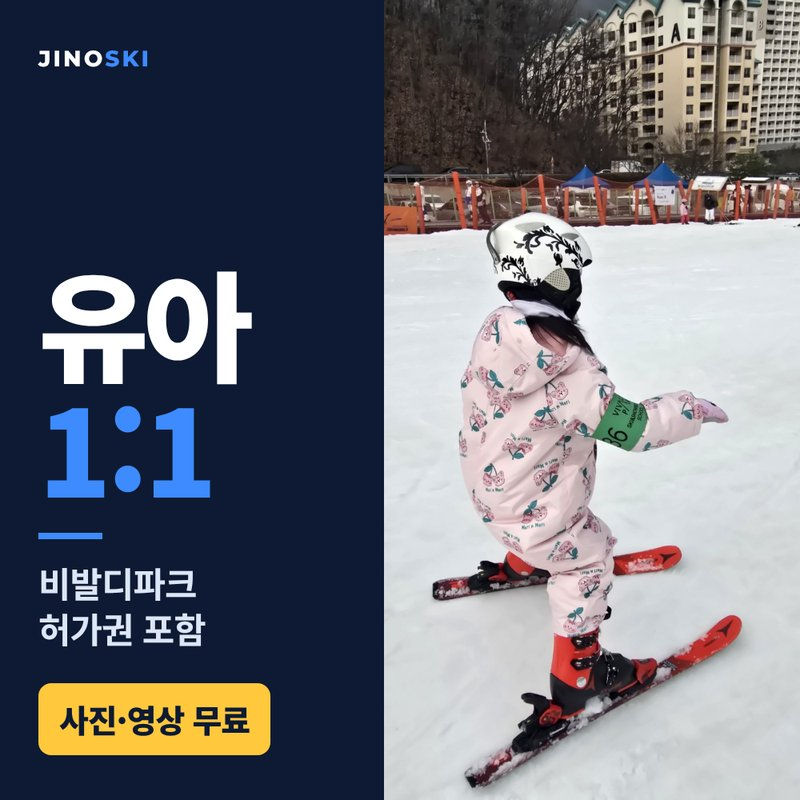
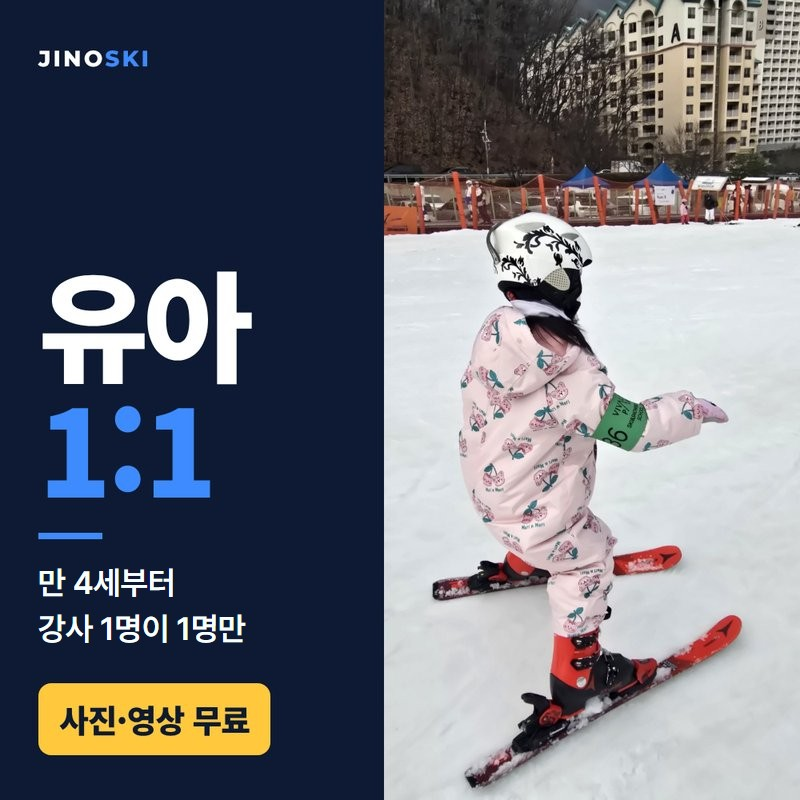
Fix store pass wording, block pre-season dates, move toast and review event
- Store: lesson cards say 패찰 별도 (no 허가권 포함); snap 390,000원 with A3 frame
- SEASON_OPEN (2026-12-04): reserve/quote calendars and snap date input block earlier dates
- Early-bird toast waits until the hero is scrolled past, so it never covers the hero CTAs
- Reviews page: reviews first with a one-line event strip; event section moved below;
  review grid no longer hidden behind a 30%-in-view reveal

Changed region(s): [[0.0312, 0.6875, 0.3125, 0.8125]]

diff --git a/src/config/store.ts b/src/config/store.ts
@@ -26,7 +26,7 @@ export const storeProducts: StoreProduct[] = [
     summary: "가장 많이 찾는 대표 강습. 입문부터 상급까지 레벨에 맞춰 진행해요.",
     points: ["날짜 → 시간(2·3시간) → 교시 선택", "1:1 · 1:2 · 1:3 소수 정예", "무전기 코칭 + 사진·영상 촬영"],
     price: "140,000원~",
-    priceNote: "1:1 · 2시간 기준",
+    priceNote: "1:1 · 2시간 기준 · 패찰 1인 25,000원 별도",
     image: "/images/store/ski.jpg",
     badge: "대표 상품",
     url: "https://smartstore.naver.com/jinoski/products/11057372815",
@@ -37,7 +37,7 @@ export const storeProducts: StoreProduct[] = [
     summary: "넘어지지 않고 내려오는 법부터 턴까지. 만 4세부터 가능해요.",
     points: ["스키와 같은 요금", "1:1 · 1:2 · 1:3 소수 정예", "무전기 코칭 + 사진·영상 촬영"],
     price: "140,000원~",
-    priceNote: "1:1 · 2시간 기준",
+    priceNote: "1:1 · 2시간 기준 · 패찰 1인 25,000원 별도",
     image: "/images/store/snowboard.jpg",
     url: "https://smartstore.naver.com/jinoski/products/12755316447",
   },
@@ -68,7 +68,8 @@ export const storeProducts: StoreProduct[] = [
     name: "인생사진 스냅 촬영",
     summary: "슬로프 위 우리 가족 인생사진. 대표가 직접 찍고, 보정하고, A3 액자로 인화해요.",
     points: ["3시간 촬영 (주간·야간 같은 가격)", "원본 전체 + 보정 20장 + 릴스 1개", "A3 파인아트 액자 포함"],
-    price: "290,000원~",
+    price: "390,000원~",
+    priceNote: "1인 · A3 액자 포함 (액자 없이 촬영만 290,000원)",
     image: "/images/store/snap.jpg",
     badge: "시즌 메인",
     url: "https://smartstore.naver.com/jinoski/products/12668462302",
@@ -79,7 +80,7 @@ export const storeProducts: StoreProduct[] = [
     summary: "넉넉하게 배우고 싶을 때. 오전·오후·야간 중 한 번에 4시간 집중 레슨.",
     points: ["09:00 · 13:20 · 19:00 시작", "스키 · 스노우보드 선택", "1:1 · 1:2 · 1:3"],
     price: "280,000원~",
-    priceNote: "1:1 기준",
+    priceNote: "1:1 기준 · 패찰 1인 50,000원 별도",
     image: "/images/store/4h.jpg",
     url: "https://smartstore.naver.com/jinoski/products/12755335317",
   },
@@ -89,7 +90,7 @@ export const storeProducts: StoreProduct[] = [
     summary: "처음 스키장에 온 아이도 놀이처럼 즐겁게. 강사 한 명이 아이 한 명만 봐요.",
     points: ["만 4세부터", "놀이식 레슨 · 안전 최우선", "레슨 사진·영상으로 부모님께 공유"],
     price: "140,000원~",
-    priceNote: "1:1 · 2시간 기준",
+    priceNote: "1:1 · 2시간 기준 · 패찰 1인 25,000원 별도",
     image: "/images/store/kids.jpg",
     badge: "부모님 추천",
     url: "https://smartstore.naver.com/jinoski/products/11057751524",

diff --git a/src/components/sections/team-quote.tsx b/src/components/sections/team-quote.tsx
@@ -26,7 +26,7 @@ import { trackEvent } from "@/components/shared/analytics";
 import { useContent } from "@/lib/use-content";
 import { EARLY_BIRD, isEarlyBirdActive } from "@/lib/pricing";
 import { cn } from "@/lib/utils";
-import { HOLIDAYS, LIFT_PRICES, LIFT_RENTAL_DISCOUNT, RENTAL_PRICES, type TicketHours } from "@/config/lift-rental";
+import { HOLIDAYS, LIFT_PRICES, LIFT_RENTAL_DISCOUNT, RENTAL_PRICES, SEASON_OPEN_DATE, type TicketHours } from "@/config/lift-rental";
 
 const KAKAO_NOTIFY_URL =
   process.env.NEXT_PUBLIC_KAKAO_NOTIFY_URL || "https://jinoski-notify.wlsgh5743669.workers.dev";
@@ -2279,7 +2279,9 @@ function RangeCalendar({
   // 비시즌(4~10월)엔 12월부터 보여줘요
   const init = start
     ? new Date(`${start}T00:00:00`)
-    : today.getMonth() >= 3 && today.getMonth() <= 9
+    : today < SEASON_OPEN_DATE
+      ? SEASON_OPEN_DATE
+      : today.getMonth() >= 3 && today.getMonth() <= 9
       ? new Date(today.getFullYear(), 11, 1)
       : today;
   const [view, setView] = useState({ y: init.getFullYear(), m: init.getMonth() });
@@ -2344,7 +2346,7 @@ function RangeCalendar({
       <div className="mt-1.5 grid grid-cols-7 gap-y-1">
         {cells.map((d, i) => {
           if (!d) return <div key={`e${i}`} />;
-          const past = d < today;
+          const past = d < today || d < SEASON_OPEN_DATE;
           const isStart = !!startD && d.getTime() === startD.getTime();
           const isEnd = !!endD && days > 1 && d.getTime() === endD.getTime();
           const inRange = !!startD && !!endD && d > startD && d < endD;
@@ -2378,6 +2380,11 @@ function RangeCalendar({
           );
         })}
       </div>
+      {first <= SEASON_OPEN_DATE && today < SEASON_OPEN_DATE && (
+        <p className="mt-2 rounded-xl bg-ice-100 px-3 py-2 text-center text-[12.5px] font-semibold text-brand-700">
+          {SEASON_OPEN_DATE.getMonth() + 1}월 {SEASON_OPEN_DATE.getDate()}일 개장 — 그 전 날짜는 고를 수 없어요
+        </p>
+      )}
       <p className="mt-2 text-center text-[12px] text-snow-500">
         <span className="font-semibold text-rose-500">빨간 날(일·공휴일)</span>과 <span className="font-semibold text-brand-600">토요일</span>은 리프트·장비 주말 요금이에요
       </p>

diff --git a/src/app/[locale]/reserve/date-picker.tsx b/src/app/[locale]/reserve/date-picker.tsx
@@ -5,7 +5,7 @@ import { ChevronLeft, ChevronRight } from "lucide-react";
 import { cn } from "@/lib/utils";
 import { useContent } from "@/lib/use-content";
 import { useLocale } from "next-intl";
-import { HOLIDAYS, HOLIDAY_NAMES } from "@/config/lift-rental";
+import { HOLIDAYS, HOLIDAY_NAMES, SEASON_OPEN_DATE } from "@/config/lift-rental";
 
 function toDateKey(date: Date): string {
   const y = date.getFullYear();
@@ -17,6 +17,8 @@ function toDateKey(date: Date): string {
 // 4월~10월(비시즌)에는 다가오는 12월(시즌 시작)을 기본으로 보여주고,
 // 11월~3월(시즌 중)에는 실제 이번 달을 그대로 보여줍니다.
 function getDefaultViewDate(today: Date): Date {
+  // 개장 전이면 개장하는 달부터 보여줘요
+  if (today < SEASON_OPEN_DATE) return SEASON_OPEN_DATE;
   const month = today.getMonth();
   const isOffSeason = month >= 3 && month <= 9;
   if (isOffSeason) {
@@ -98,7 +100,7 @@ export function DatePicker({
         {cells.map((date, i) => {
           if (!date) return <div key={`empty-${i}`} />;
           const key = toDateKey(date);
-          const isPast = date < today;
+          const isPast = date < today || date < SEASON_OPEN_DATE;
           const isSelected = key === value;
           const hol = HOLIDAYS.includes(key);
           const red = date.getDay() === 0 || hol;
@@ -127,6 +129,15 @@ export function DatePicker({
           );
         })}
       </div>
+      {firstOfMonth <= SEASON_OPEN_DATE && today < SEASON_OPEN_DATE && (
+        <p className="mt-4 rounded-xl bg-ice-100 px-3 py-2 text-center text-[12.5px] font-semibold text-brand-700">
+          {L === "en"
+            ? `The season opens on Dec ${SEASON_OPEN_DATE.getDate()} — earlier dates can't be booked`
+            : L === "zh"
+              ? `雪季${SEASON_OPEN_DATE.getMonth() + 1}月${SEASON_OPEN_DATE.getDate()}日开放，之前的日期无法预约`
+              : `${SEASON_OPEN_DATE.getMonth() + 1}월 ${SEASON_OPEN_DATE.getDate()}일 개장 — 그 전 날짜는 예약할 수 없어요`}
+        </p>
+      )}
       <p className="mt-4 text-center text-[12px] leading-relaxed text-snow-500">
         {L === "en" ? (
           <>

diff --git a/src/components/sections/review-event.tsx b/src/components/sections/review-event.tsx
@@ -38,7 +38,31 @@ export function ReviewEventBanner() {
   );
 }
 
-/** 후기 페이지 상단 이벤트 섹션 */
+/** 후기 페이지 맨 위 한 줄 띠 — 후기를 먼저 보여주고, 이벤트는 페이지 아래 섹션으로 내려가요 */
+export function ReviewEventStrip() {
+  const e = getReviewEvent(useLocale());
+  return (
+    <div className="bg-white pt-6 sm:pt-8">
+      <Container>
+        <a
+          href="#review-event"
+          className="group flex items-center gap-3 rounded-2xl bg-gradient-to-r from-[#833AB4] via-[#E1306C] to-[#F77737] py-2.5 pl-3 pr-4 text-white"
+        >
+          <span className="flex h-9 w-9 shrink-0 items-center justify-center rounded-xl bg-white/20">
+            <Instagram size={18} />
+          </span>
+          <span className="min-w-0 flex-1">
+            <span className="block text-[13.5px] font-bold leading-snug">{e.banner.title}</span>
+            <span className="hidden truncate text-[12px] text-white/85 sm:block">{e.banner.description}</span>
+          </span>
+          <span className="shrink-0 text-[12.5px] font-bold underline-offset-2 group-hover:underline">{e.banner.cta} ↓</span>
+        </a>
+      </Container>
+    </div>
+  );
+}
+
+/** 후기 페이지 이벤트 섹션 (후기 목록 아래) */
 export function ReviewEvent() {
   const e = getReviewEvent(useLocale());
   const { contact } = useContent();

diff --git a/src/components/sections/reviews.tsx b/src/components/sections/reviews.tsx
@@ -5,7 +5,6 @@ import { Star, Quote, X, Hand } from "lucide-react";
 import { useContent } from "@/lib/use-content";
 import { cn } from "@/lib/utils";
 import { Container } from "@/components/shared/container";
-import { Reveal } from "@/components/shared/reveal";
 import { ReserveCta } from "@/components/shared/reserve-cta";
 
 type Content = ReturnType<typeof useContent>;
@@ -57,13 +56,12 @@ export function Reviews() {
           <Hand size={14} /> {ui.reviews.tapHint}
         </p>
 
-        <Reveal delay={0.1}>
-          <div className="mt-8 grid grid-cols-2 gap-3 sm:gap-4 md:grid-cols-3 lg:grid-cols-4">
-            {list.slice(0, visible).map((review, i) => (
-              <ReviewCard key={`${review.name}-${review.date}-${i}`} review={review} ui={ui.reviews} />
-            ))}
-          </div>
-        </Reveal>
+        {/* 그리드가 길어서 등장 애니메이션(30% 보일 때)을 쓰면 첫 화면이 비어 보여요 → 바로 보여줘요 */}
+        <div className="mt-8 grid grid-cols-2 gap-3 sm:gap-4 md:grid-cols-3 lg:grid-cols-4">
+          {list.slice(0, visible).map((review, i) => (
+            <ReviewCard key={`${review.name}-${review.date}-${i}`} review={review} ui={ui.reviews} />
+          ))}
+        </div>
 
         {visible < list.length && (
           <div className="mt-8 flex justify-center">

diff --git a/src/components/sections/snap-shoot.tsx b/src/components/sections/snap-shoot.tsx
@@ -15,6 +15,7 @@ import { Link } from "@/i18n/navigation";
 import { ConsentBox, marketingTag } from "@/components/shared/consent-box";
 import { attributionText } from "@/components/shared/attribution";
 import { getSnapContent, optionCost, type SnapPackage } from "@/config/content/snap";
+import { SEASON_OPEN } from "@/config/lift-rental";
 
 const KAKAO_NOTIFY_URL =
   process.env.NEXT_PUBLIC_KAKAO_NOTIFY_URL || "https://jinoski-notify.wlsgh5743669.workers.dev";
@@ -307,7 +308,7 @@ export function SnapShoot() {
             <div className="mt-7 grid gap-5">
               <label className="grid gap-2">
                 <span className="text-[14px] font-semibold text-ink-900">{b.date}</span>
-                <input type="date" value={date} onChange={(e) => setDate(e.target.value)} className={inputCls} />
+                <input type="date" min={SEASON_OPEN} value={date} onChange={(e) => setDate(e.target.value)} className={inputCls} />
               </label>
 
               <div className="grid gap-2">

diff --git a/src/components/sections/season-popup.tsx b/src/components/sections/season-popup.tsx
@@ -48,8 +48,24 @@ export function SeasonPopup() {
       dismissed = false;
     }
     if (dismissed) return;
-    const t = setTimeout(() => setBanner(true), 3000);
-    return () => clearTimeout(t);
+    // 첫 화면의 「예약하기·레슨 보기」 버튼을 가리지 않도록,
+    // 3초가 지나고 + 첫 화면을 어느 정도 내린 뒤에만 띄워요.
+    let waited = false;
+    const check = () => {
+      if (waited && window.scrollY > window.innerHeight * 0.7) {
+        setBanner(true);
+        window.removeEventListener("scroll", check);
+      }
+    };
+    const t = setTimeout(() => {
+      waited = true;
+      check();
+    }, 3000);
+    window.addEventListener("scroll", check, { passive: true });
+    return () => {
+      clearTimeout(t);
+      window.removeEventListener("scroll", check);
+    };
   }, [locale]);
   const closeBanner = () => {
     setBanner(false);

diff --git a/src/config/lift-rental.ts b/src/config/lift-rental.ts
@@ -25,6 +25,10 @@ export const CHILD_LABEL = "어린이(13세 이하·초등)";
 /** 안전헬멧 (할인 제외 · 현장 결제): 4시간권 3,000 / 6시간권 4,000 / 8시간권 5,000 */
 export const HELMET_NOTE = "헬멧은 할인 제외 (현장 3,000~5,000원)";
 
+/** 26/27 시즌 개장일 — 이 날 전은 예약·견적 달력에서 고를 수 없어요. 개장일이 바뀌면 여기만 고치면 돼요. */
+export const SEASON_OPEN = "2026-12-04";
+export const SEASON_OPEN_DATE = new Date(2026, 11, 4);
+
 /**
  * 26/27 시즌 공휴일 — 이 날은 리프트·장비를 「주말·공휴일」 요금으로 계산해요.
  * 성탄절, 신정, 설 연휴(+대체공휴일), 삼일절. 날짜가 바뀌면 여기만 고치면 돼요.

diff --git a/src/app/[locale]/(marketing)/reviews/page.tsx b/src/app/[locale]/(marketing)/reviews/page.tsx
@@ -1,7 +1,7 @@
 import type { Metadata } from "next";
 import { getContent, isLocale, defaultLocale } from "@/config/site";
 import { pageMetadata } from "@/lib/page-metadata";
-import { ReviewEvent } from "@/components/sections/review-event";
+import { ReviewEvent, ReviewEventStrip } from "@/components/sections/review-event";
 import { PageHero } from "@/components/shared/page-hero";
 import { Reviews } from "@/components/sections/reviews";
 
@@ -38,8 +38,9 @@ export default async function ReviewsPage({
         title={title}
         description={content.pageMeta.reviews.description}
       />
-      <ReviewEvent />
+      <ReviewEventStrip />
       <Reviews />
+      <ReviewEvent />
     </>
   );
 }
